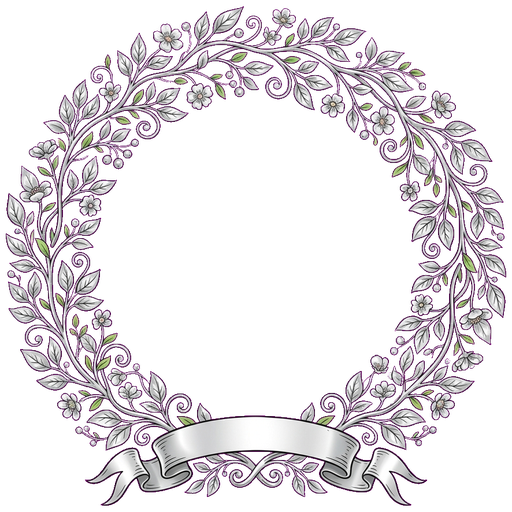
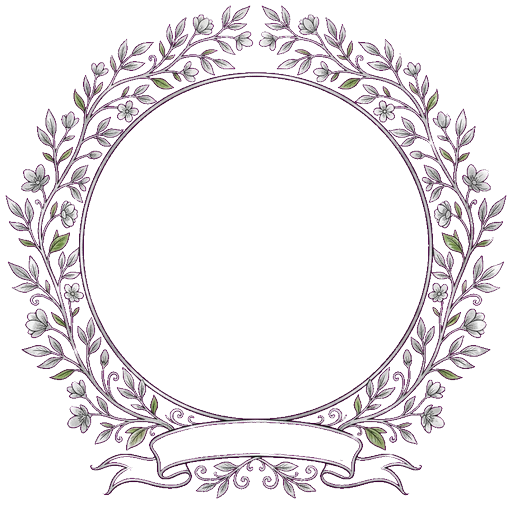
fix: restore preferred Silver V4 and Bronze V4 laurel wreath assets as approved by user

diff --git a/podium_tuner.html b/podium_tuner.html
@@ -33,7 +33,7 @@
                         <div id="avatar-top2" class="rounded-full overflow-hidden shadow-md bg-white border-2 border-slate-300 relative z-0 flex items-center justify-center">
                             <img src="avatars/avatar_1539535605.png" class="w-full h-full object-cover">
                         </div>
-                        <img id="wreath-top2" src="src/assets/smurf_laurel_silver.png?v=1784770399" class="absolute pointer-events-none z-10 filter drop-shadow-md">
+                        <img id="wreath-top2" src="src/assets/smurf_laurel_silver.png?v=8ec8f09" class="absolute pointer-events-none z-10 filter drop-shadow-md">
                     </div>
                     <span class="text-xs font-bold text-slate-800 mt-1">Tí Ăn Chơi</span>
                 </div>
@@ -46,7 +46,7 @@
                         <div id="avatar-top1" class="rounded-full overflow-hidden shadow-lg ring-4 ring-amber-400/50 bg-white border-2 border-amber-300 relative z-0 flex items-center justify-center">
                             <img src="avatars/avatar_ngokhaihoang1999_gmail_com.png" class="w-full h-full object-cover" onerror="this.src='avatars/smurf_basic_placeholder.png'">
                         </div>
-                        <img id="wreath-top1" src="src/assets/smurf_laurel_gold.png?v=1784770399" class="absolute pointer-events-none z-10 filter drop-shadow-lg">
+                        <img id="wreath-top1" src="src/assets/smurf_laurel_gold.png?v=8ec8f09" class="absolute pointer-events-none z-10 filter drop-shadow-lg">
                     </div>
                     <span class="text-xs font-extrabold text-amber-950 mt-1">Tí Kế Hoạch</span>
                 </div>
@@ -58,7 +58,7 @@
                         <div id="avatar-top3" class="rounded-full overflow-hidden shadow-md bg-white border-2 border-amber-700/40 relative z-0 flex items-center justify-center">
                             <img src="avatars/avatar_1539535605.png" class="w-full h-full object-cover">
                         </div>
-                        <img id="wreath-top3" src="src/assets/smurf_laurel_bronze.png?v=1784770399" class="absolute pointer-events-none z-10 filter drop-shadow-md">
+                        <img id="wreath-top3" src="src/assets/smurf_laurel_bronze.png?v=8ec8f09" class="absolute pointer-events-none z-10 filter drop-shadow-md">
                     </div>
                     <span class="text-xs font-bold text-slate-800 mt-1">Tí Meow Labs</span>
                 </div>

diff --git a/registration.html b/registration.html
@@ -13,7 +13,7 @@
     <script src="https://cdn.tailwindcss.com?plugins=forms,container-queries"></script>
     <link href="https://fonts.googleapis.com/css2?family=Baloo+2:wght@400;600;700;800&family=Nunito:wght@400;500;600;700;800;900&family=Quicksand:wght@500;600;700&display=swap" rel="stylesheet"/>
     <link href="https://fonts.googleapis.com/css2?family=Material+Symbols+Outlined:wght,FILL@100..700,0..1&amp;display=swap" rel="stylesheet"/>
-    <link href="styles.css?v=1784770406918" rel="stylesheet"/>
+    <link href="styles.css?v=1784770583642" rel="stylesheet"/>
     <!-- html2canvas library for card export -->
     <script src="https://cdnjs.cloudflare.com/ajax/libs/html2canvas/1.4.1/html2canvas.min.js"></script>
     <script id="tailwind-config">
@@ -744,13 +744,13 @@
         <div id="map-viewport" class="w-full h-[calc(100vh-100px)] min-h-[550px] relative overflow-hidden select-none flex items-center justify-center rounded-b-[24px]">
             
             <!-- Blurred Background to cover empty side margins on wide desktop views dynamically -->
-            <div class="absolute inset-0 z-0 bg-cover bg-center filter blur-xl scale-110 opacity-50 pointer-events-none" style="background-image: url('src/assets/smurf_village_base_map_vertical.png?v=1784770406918');"></div>
+            <div class="absolute inset-0 z-0 bg-cover bg-center filter blur-xl scale-110 opacity-50 pointer-events-none" style="background-image: url('src/assets/smurf_village_base_map_vertical.png?v=1784770583642');"></div>
             
             <!-- Map Board: Aspect Ratio Locked (512x1024) -->
             <div id="map-board" class="relative w-full aspect-[1/2] shadow-inner">
                 
                 <!-- Base Map Image (Absolute fit to prevent alignment drift) -->
-                <img src="src/assets/smurf_village_base_map_vertical.png?v=1784770406918" class="absolute inset-0 w-full h-full object-fill z-0 pointer-events-none select-none">
+                <img src="src/assets/smurf_village_base_map_vertical.png?v=1784770583642" class="absolute inset-0 w-full h-full object-fill z-0 pointer-events-none select-none">
                 
                 <!-- Floating Clouds -->
                 <div class="absolute top-10 left-[5%] text-5xl opacity-20 pointer-events-none float-cloud" style="animation: floatSlow 20s linear infinite;">☁️</div>